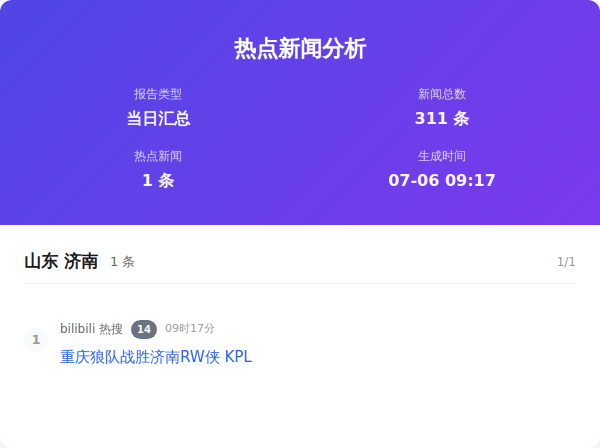
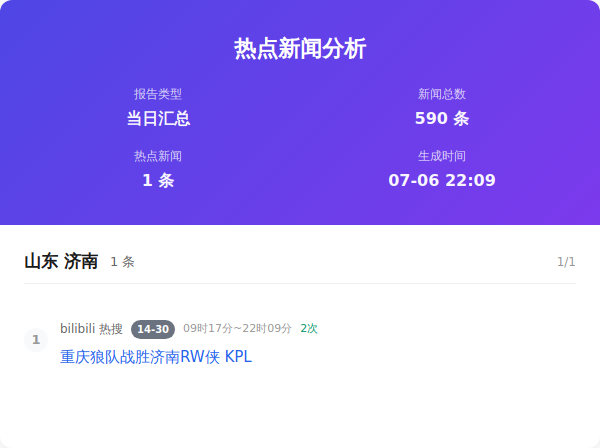
Auto update by GitHub Actions at Mon Jul  6 22:09:50 CST 2026

Changed region(s): [[0.24, 0.7188, 0.54, 0.7812], [0.72, 0.375, 0.84, 0.4375], [0.69, 0.25, 0.75, 0.2812]]

diff --git a/index.html b/index.html
@@ -357,7 +357,7 @@
                     </div>
                     <div class="info-item">
                         <span class="info-label">新闻总数</span>
-                        <span class="info-value">311 条</span>
+                        <span class="info-value">590 条</span>
                     </div>
                     <div class="info-item">
                         <span class="info-label">热点新闻</span>
@@ -365,7 +365,7 @@
                     </div>
                     <div class="info-item">
                         <span class="info-label">生成时间</span>
-                        <span class="info-value">07-06 09:17</span>
+                        <span class="info-value">07-06 22:09</span>
                     </div>
                 </div>
             </div>
@@ -383,7 +383,7 @@
                         <div class="news-number">1</div>
                         <div class="news-content">
                             <div class="news-header">
-                                <span class="source-name">bilibili 热搜</span><span class="rank-num ">14</span><span class="time-info">09时17分</span>
+                                <span class="source-name">bilibili 热搜</span><span class="rank-num ">14-30</span><span class="time-info">09时17分~22时09分</span><span class="count-info">2次</span>
                             </div>
                             <div class="news-title"><a href="https://search.bilibili.com/all?keyword=%E9%87%8D%E5%BA%86%E7%8B%BC%E9%98%9F%20%E6%B5%8E%E5%8D%97RW%E4%BE%A0" target="_blank" class="news-link">重庆狼队战胜济南RW侠 KPL</a>
                             </div>

diff --git a/output/2026年07月06日/html/当日汇总.html b/output/2026年07月06日/html/当日汇总.html
@@ -357,7 +357,7 @@
                     </div>
                     <div class="info-item">
                         <span class="info-label">新闻总数</span>
-                        <span class="info-value">311 条</span>
+                        <span class="info-value">590 条</span>
                     </div>
                     <div class="info-item">
                         <span class="info-label">热点新闻</span>
@@ -365,7 +365,7 @@
                     </div>
                     <div class="info-item">
                         <span class="info-label">生成时间</span>
-                        <span class="info-value">07-06 09:17</span>
+                        <span class="info-value">07-06 22:09</span>
                     </div>
                 </div>
             </div>
@@ -383,7 +383,7 @@
                         <div class="news-number">1</div>
                         <div class="news-content">
                             <div class="news-header">
-                                <span class="source-name">bilibili 热搜</span><span class="rank-num ">14</span><span class="time-info">09时17分</span>
+                                <span class="source-name">bilibili 热搜</span><span class="rank-num ">14-30</span><span class="time-info">09时17分~22时09分</span><span class="count-info">2次</span>
                             </div>
                             <div class="news-title"><a href="https://search.bilibili.com/all?keyword=%E9%87%8D%E5%BA%86%E7%8B%BC%E9%98%9F%20%E6%B5%8E%E5%8D%97RW%E4%BE%A0" target="_blank" class="news-link">重庆狼队战胜济南RW侠 KPL</a>
                             </div>